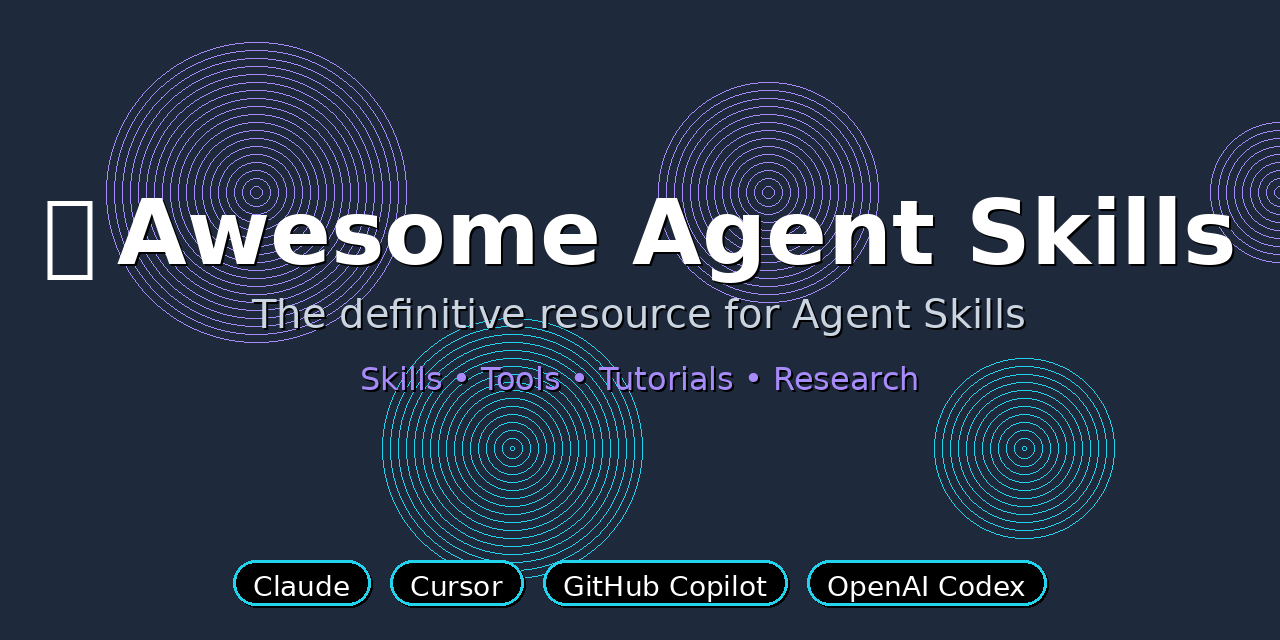
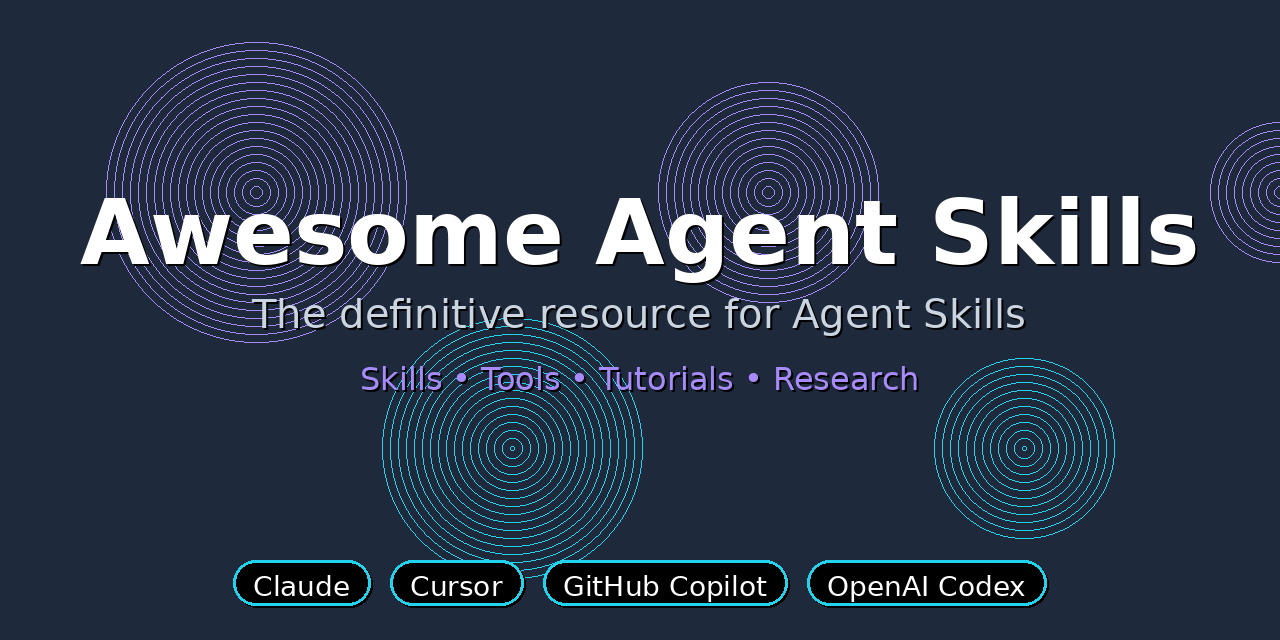
Remove emoji from social preview to fix white rectangle rendering issue

Changed region(s): [[0.0312, 0.2812, 0.9688, 0.4688]]

diff --git a/assets/generate_preview.py b/assets/generate_preview.py
@@ -48,26 +48,18 @@ except:
     tagline_font = ImageFont.load_default()
     badge_font = ImageFont.load_default()
 
-# Add main title - start after emoji to avoid white rectangle
+# Add main title - emoji removed to avoid rendering issues
 title = "Awesome Agent Skills"
-emoji = "🎯"
 
-# Calculate positions
+# Calculate position - centered
 title_bbox = draw.textbbox((0, 0), title, font=title_font)
 title_width = title_bbox[2] - title_bbox[0]
-emoji_bbox = draw.textbbox((0, 0), emoji, font=title_font)
-emoji_width = emoji_bbox[2] - emoji_bbox[0]
-
-total_width = emoji_width + 20 + title_width
-start_x = (WIDTH - total_width) // 2
+title_x = (WIDTH - title_width) // 2
 title_y = 180
 
-# Draw emoji
-draw.text((start_x, title_y), emoji, font=title_font, embedded_color=True)
-
 # Draw title with shadow effect for better contrast
-draw.text((start_x + emoji_width + 20 + 2, title_y + 2), title, fill="#000000", font=title_font)
-draw.text((start_x + emoji_width + 20, title_y), title, fill=TEXT_COLOR, font=title_font)
+draw.text((title_x + 2, title_y + 2), title, fill="#000000", font=title_font)
+draw.text((title_x, title_y), title, fill=TEXT_COLOR, font=title_font)
 
 # Add tagline
 tagline = "The definitive resource for Agent Skills"
